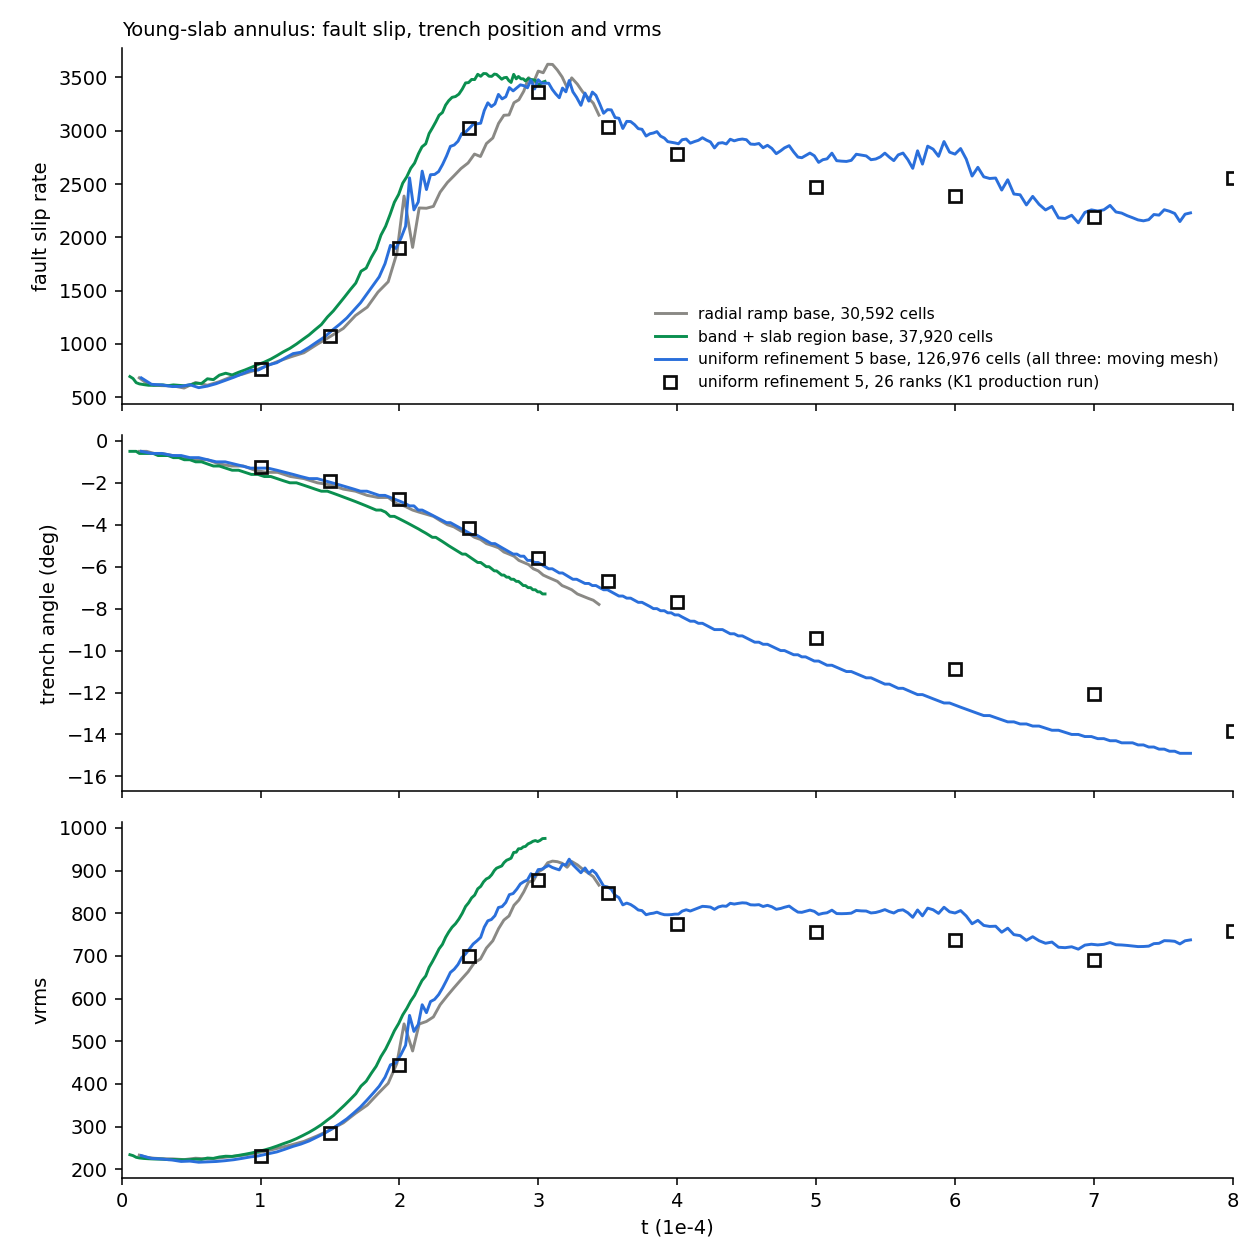
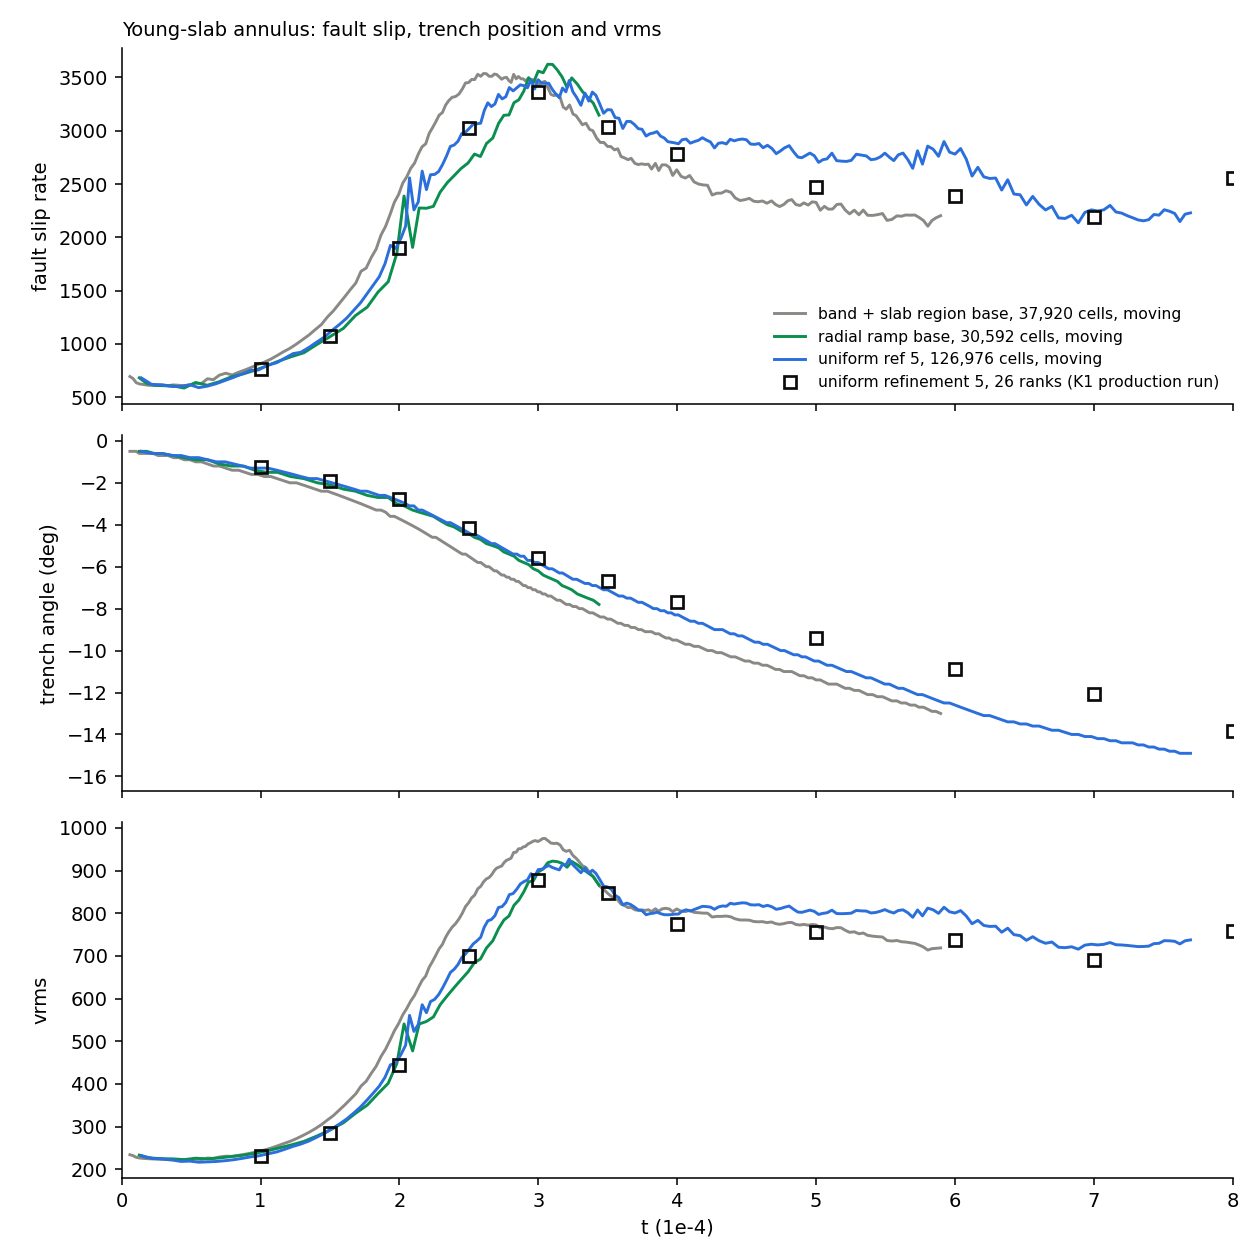
Graded-base trial: the banded run finished (200 steps, t = 5.9e-4); histories, slab sizes, cost

diff --git a/graded_base_trial.md b/graded_base_trial.md
@@ -1,6 +1,6 @@
 # Trial: a radially graded annulus base under the moving mesh and the fault
 
-Status at 2026-11-14 06:30 UTC. The radially graded run has finished (60 steps); the production-length run on the banded base with a slab region is at step 97 of 200. **Section 4 is the current design**; sections 2 and 3 are the steps that led to it. Same model, driver and code as `mmpde_fault_sample_runs.md`, plus new driver options for the base: `uw_cell_inner`, `uw_cell_window`, `uw_cell_band`, `uw_cell_grow`.
+Status at 2026-11-14 11:30 UTC. Both production-length runs have finished: the radially graded base (60 steps, to t = 3.44e-4) and the banded base with a slab region (200 steps, to t = 5.90e-4). **Section 4 is the current design**; sections 2 and 3 are the steps that led to it. Same model, driver and code as `mmpde_fault_sample_runs.md`, plus new driver options for the base: `uw_cell_inner`, `uw_cell_window`, `uw_cell_band`, `uw_cell_grow`.
 
 ## 1. Does a graded base survive the refinement hierarchy?
 
@@ -101,31 +101,45 @@ Entries are fault slip rate / trench angle / vrms. All three left-hand columns u
 | 1.5e-4 | 1278 / −2.44° / 320 | 1068 / −2.10° / 292 | 1110 / −1.97° / 292 | 1079 / −1.90° / 284 |
 | 2.0e-4 | 2423 / −3.72° / 546 | 2044 / −3.04° / 481 | 1964 / −2.87° / 463 | 1904 / −2.76° / 445 |
 | 2.5e-4 | 3454 / −5.51° / 826 | 2708 / −4.42° / 666 | 3018 / −4.39° / 715 | 3024 / −4.15° / 701 |
-| 3.0e-4 | (step 97: 3470 / −7.2° / 970) | 3559 / −6.20° / 897 | 3477 / −5.80° / 902 | 3361 / −5.57° / 877 |
-| 3.4e-4 | | 3247 / −7.62° / 884 | 3349 / −6.90° / 898 | 3037 / −6.70° / 847 (at 3.5e-4) |
+| 3.0e-4 | 3432 / −7.20° / 969 | 3559 / −6.20° / 897 | 3477 / −5.80° / 902 | 3361 / −5.57° / 877 |
+| 3.4e-4 | 2980 / −8.23° / 884 | 3247 / −7.62° / 884 | 3349 / −6.90° / 898 | not sampled |
+| 3.5e-4 | 2852 / −8.50° / 847 | ended at 3.44e-4 | 3197 / −7.11° / 861 | 3037 / −6.70° / 847 |
+| 4.0e-4 | 2626 / −9.51° / 810 | | 2880 / −8.30° / 798 | 2777 / −7.68° / 775 |
+| 5.0e-4 | 2327 / −11.40° / 773 | | 2739 / −10.50° / 801 | 2470 / −9.42° / 755 |
+| 5.5e-4 | 2180 / −12.27° / 739 | | 2784 / −11.60° / 808 | not sampled (6.0e-4: 2390 / −10.90° / 737) |
 
 ![histories](graded_base_histories.png)
 
 - **Radial ramp.** In family with the other moving-mesh runs: slip 10% low at 2.5e-4 and 6% high at 3.0e-4, trench about 1° ahead of the production run at the end. No failed steps, no placement refusals in 60 steps.
-- **Band plus slab region.** It runs ahead of every other run, by roughly 0.4e-4 in time: its state at 2.5e-4 is close to the refinement-5 moving-mesh run's at 3.0e-4. Cause not identified. This base has 12 to 16 km cells in the lid where the others have 24 to 40 km, and the weak crust is 11 km thick, so the lid may not be converged in the refinement-5 runs; that is a guess. No failed steps or placement refusals in 97 steps.
-- **The mesh holds.** At step 90 of the banded run the lid is 12 / 17 km all round and the slab 26 to 33 km down to 660 km.
-- **The slab region is nearly outrun.** By t = 3e-4 the trench has moved 7° to 8° (800 to 900 km of arc) against the region's 1000 km half-width.
+- **Band plus slab region, to the slip peak.** It runs ahead of every other run on the rise, by roughly 0.4e-4 in time: its slip peaks near t = 2.6e-4 to 2.9e-4 (3,450 to 3,540) where the others peak near 3.0e-4 to 3.2e-4. The peak level is the same. Cause not identified. This base has 12 to 16 km cells in the lid where the others have 24 to 40 km, and the weak crust is 11 km thick, so the lid may not be converged in the refinement-5 runs; that is a guess.
+- **Band plus slab region, after the peak.** It settles close to the production run: slip 5% to 6% lower at 4.0e-4 and 5.0e-4, vrms 2% to 5% higher. The refinement-5 moving-mesh run sits 4% to 11% higher in slip over the same interval. No slip spikes.
+- **Its trench lead stops growing.** The trench is 1.6° ahead of the production run at 3.0e-4 and 1.8° to 2.0° ahead from 3.5e-4 to 5.0e-4: the lead is built on the rise, and after the peak the trench retreats at the production run's rate (1.9° per 1e-4 against 1.7°). The refinement-5 moving-mesh run's lead keeps growing (0.6° at 4.0e-4, 1.1° at 5.0e-4).
+- **No failed steps.** All 200 steps converged and the fault was placed at every step.
+- **The lid holds; the slab does not.** The lid stays at 12 / 17 km (10th percentile / median) all round to the end. The trench passes the edge of the slab region (8.9°) at t = 3.7e-4. Slab cell edge (km, 10th percentile / median) within 1000 km of the trench:
+
+| Step, t | Trench | Slab 100–200 km | Slab 200–400 km | Slab 400–660 km |
+|---|---|---|---|---|
+| 0 | −0.5° | 20 / 24 | 18 / 29 | 22 / 29 |
+| 90, 2.9e-4 | −6.8° | 20 / 26 | 30 / 32 | 30 / 33 |
+| 150, 4.4e-4 | −10.2° | 22 / 29 | 31 / 33 | 32 / 34 |
+| 190, 5.6e-4 | −12.5° | 22 / 29 | 31 / 44 | 39 / 46 |
 
 ## 6. Cost
 
 Core-hours of solver steps to a matched model time, on a shared 96-thread Linux workstation, so indicative.
 
-| Run | Ranks | Median s/step | Steps to t = 3.0e-4 | Core-hours to t = 3.0e-4 | Smallest time step |
-|---|---|---|---|---|---|
-| Radial ramp base + moving mesh | 4 | 132 | 48 | 7 | 3.2e-6 |
-| Band + slab region base + moving mesh | 4 | 159 | 97 | 17 | 1.6e-6 |
-| Uniform ref 4 + moving mesh | 4 | 202 | 39 | 9 | 4.1e-6 |
-| Uniform ref 5 + moving mesh | 10 | 373 | 71 | 72 | 2.3e-6 |
+| Run | Ranks | Median s/step | Steps to t = 3.0e-4 | Core-hours to t = 3.0e-4 | Core-hours to t = 5.0e-4 | Smallest time step |
+|---|---|---|---|---|---|---|
+| Radial ramp base + moving mesh | 4 | 132 | 48 | 7 | not run | 3.2e-6 |
+| Band + slab region base + moving mesh | 4 | 160 | 97 | 17 | 31 (173 steps) | 1.6e-6 |
+| Uniform ref 4 + moving mesh | 4 | 202 | 39 | 9 | 16 (74 steps) | 4.1e-6 |
+| Uniform ref 5 + moving mesh | 10 | 373 | 71 | 72 | 148 (143 steps) | 2.3e-6 |
 
 - The uniform refinement-5 production run on a Linux cluster took a median 100 s/step on 26 ranks (2,600 core-seconds per step).
-- The banded base costs about a quarter of the refinement-5 moving-mesh run to the same model time, with a finer lid and a similar slab. It costs 2.5 times the radial ramp: half the time step, and more cells.
+- The whole banded run (200 steps to t = 5.90e-4) took 9.0 h of solver steps on 4 ranks (36 core-hours).
+- The banded base costs about a quarter to a fifth of the refinement-5 moving-mesh run to the same model time, with a finer lid and a similar slab. It costs 2.5 times the radial ramp: half the time step, and more cells.
 
 ## Limits of this trial
 
-- The window (section 3) and the slab region (section 4) are fixed in the base. The trench moves about 14° (870 km) by t = 8e-4 in the production run, so a long run needs a wider or offset window.
+- The window (section 3) and the slab region (section 4) are fixed in the base. In the banded run the trench left the region at t = 3.7e-4 and the slab below 200 km coarsened from 29 km to 44 to 46 km by 5.6e-4. A long run needs a wider or offset region; the trench moves about 14° by t = 8e-4 in the production run.
 - The band and the window are put in through a size callback wrapped round the library's annulus mesher from the driver. A proper option on the mesher is library work, not done here.
